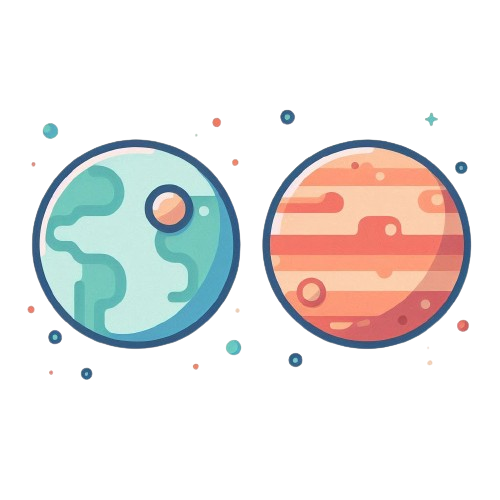
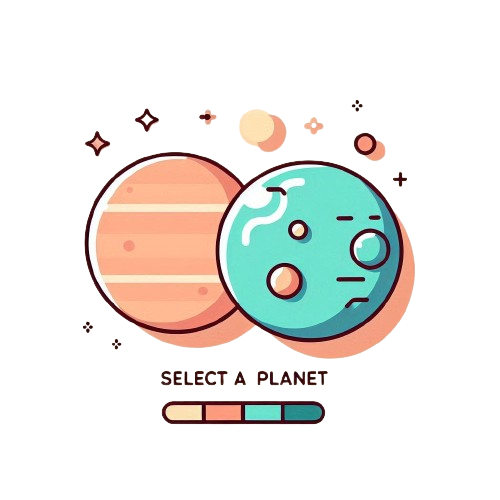
style: create input, select and form styles

diff --git a/src/components/forms/registerAdress/index.tsx b/src/components/forms/registerAdress/index.tsx
@@ -1,8 +1,11 @@
 import { useState } from "react";
 import { useForm } from "react-hook-form";
+import { FaArrowLeft } from "react-icons/fa6";
 import launchButton from "../../../assets/imgs/launch_button.webp";
+import planets from "../../../assets/imgs/planets.webp";
 import { StdInput, StdSelect } from "../inputs";
 import { Planets, SelectOpts } from "../inputs/stdSelect";
+import s from "./index.module.scss";
 
 export const RegisterAdressForm = (): JSX.Element => {
   const {
@@ -22,48 +25,62 @@ export const RegisterAdressForm = (): JSX.Element => {
   const [selectedPlanet, setSelectedPLanet] = useState<Planets>("not_selected");
 
   return (
-    <div className="">
-      <div  className="">
-        <button aria-label="Return">{"<"}</button>
-        <h1 className="">Address</h1>
+    <div className={s.form__container}>
+      <div className={`align ${s.form__header}`}>
+        <button aria-label="Return">
+          <FaArrowLeft size={16} />
+        </button>
+        <h1 className="title3 bold ">Creating new address</h1>
       </div>
-      <form onSubmit={handleSubmit(submit)} className="">
+      <form onSubmit={handleSubmit(submit)} className={`align`}>
         <StdInput
-          id="adress_label"
-          label="Adress label"
+          id="address_label"
+          label="Address label"
           {...register("label")}
         />
-        <StdInput id="full_name" label="Full name" {...register("fullName")} />
-        <StdInput
-          id="phone_number"
-          type="number"
-          label="Mobile Phone"
-          {...register("phone")}
-        />
+        <div className={`${s.paralel__container}`}>
+          <StdInput
+            id="full_name"
+            label="Full name"
+            {...register("fullName")}
+          />
+          <StdInput
+            id="phone_number"
+            type="number"
+            label="Mobile phone"
+            {...register("phone")}
+          />
+        </div>
         <StdSelect
           id="planet_select"
-          label="Planet select"
+          label="Planet"
           options={planetOptions}
           setSelectedPlanet={setSelectedPLanet}
           {...register("planet")}
         />
-        {selectedPlanet === "not_selected" && <h2>Select a planet</h2>}
+        {selectedPlanet === "not_selected" && (
+          <img src={planets} className={`${s.planets__img}`} />
+        )}
         {selectedPlanet === "Earth" && (
           <>
-            <StdInput
-              id="zip_Code"
-              type="number"
-              label="Zip code"
-              {...register("zipCode")}
-            />
             <StdInput
               id="adress_line"
               label="Adress line"
               {...register("adress")}
             />
-            <StdInput id="country" label="Country" {...register("country")} />
-            <StdInput id="state" label="State" {...register("state")} />
-            <StdInput id="city" label="City" {...register("city")} />
+            <div className={`${s.paralel__container}`}>
+              <StdInput id="country" label="Country" {...register("country")} />
+              <StdInput id="state" label="State" {...register("state")} />
+            </div>
+            <div className={`${s.paralel__container}`}>
+              <StdInput id="city" label="City" {...register("city")} />
+              <StdInput
+                id="zip_Code"
+                type="number"
+                label="Zip code"
+                {...register("zipCode")}
+              />
+            </div>
           </>
         )}
         {selectedPlanet === "Mars" && (

diff --git a/src/components/forms/inputs/stdInput/index.tsx b/src/components/forms/inputs/stdInput/index.tsx
@@ -1,4 +1,5 @@
 import { forwardRef, InputHTMLAttributes } from "react";
+import s from "./index.module.scss"
 
 interface StdInputProps extends InputHTMLAttributes<HTMLInputElement> {
   label: string;
@@ -8,10 +9,10 @@ interface StdInputProps extends InputHTMLAttributes<HTMLInputElement> {
 export const StdInput = forwardRef<HTMLInputElement, StdInputProps>(
   ({ label, id, ...rest }, ref): JSX.Element => {
     return (
-      <>
-        <label htmlFor={id}>{label}</label>
-        <input id={id} ref={ref} {...rest} />
-      </>
+      <div className="input__container">
+        <label htmlFor={id} className="text3 medium">{label} *</label>
+        <input id={id} ref={ref} {...rest}/>
+      </div>
     );
   },
 );

diff --git a/src/components/forms/registerAdress/index.module.scss b/src/components/forms/registerAdress/index.module.scss
@@ -1,0 +1,40 @@
+@use "../../../styles/abstracts/colors.scss" as *;
+
+.form__container {
+  form {
+    display: flex;
+    flex-direction: column;
+    row-gap: 1rem;
+  }
+}
+
+.form__header {
+  display: flex;
+  align-items: center;
+  gap: 0.9375rem;
+  height: 3.75rem;
+
+  button {
+    display: flex;
+    align-items: center;
+    justify-content: center;
+    border: 1px solid $neutral-300;
+    border-radius: 8px;
+    outline: none;
+    background-color: transparent;
+    height: 2rem;
+    width: 2rem;
+  }
+}
+
+.paralel__container {
+  display: grid;
+  grid-template-columns: 1fr 1fr;
+  column-gap: 1rem;
+}
+
+.planets__img {
+  width: 90%;
+  margin: 0 auto;
+  filter: drop-shadow(2px 1px 4px #616161);
+}

diff --git a/src/styles/abstracts/_texts.scss b/src/styles/abstracts/_texts.scss
@@ -1,13 +1,13 @@
 
 $font-family-1: "Nunito Sans", sans-serif;
 
-$fontSize-1: clamp(2rem, 5vh, 2.75rem);
-$fontSize-2: clamp(1.85rem, 5vh, 2.375rem);
-$fontSize-3: clamp(1rem, 5vh, 1.5rem);
-$fontSize-4: clamp(0.93rem, 5vh, 1.25rem);
-$fontSize-5: clamp(0.75rem, 5vh, 1rem);
-$fontSize-6: clamp(0.5rem, 5vh, 0.875rem);
-$fontSize-7: clamp(0.35rem, 5vh, 0.75rem);
+$fontSize-1: clamp(2rem, 5vh, 2.375rem);
+$fontSize-2: clamp(1.75rem, 5vh, 2rem);
+$fontSize-3: clamp(1.5rem, 5vh, 1.75rem);
+$fontSize-4: clamp(1.25rem, 5vh, 1.5rem);
+$fontSize-5: clamp(1rem, 5vh, 1.25rem);
+$fontSize-6: clamp(.5rem, 5vh, 1rem);
+$fontSize-7: clamp(.375rem, 5vh, .625rem);
 
 $fontWeight-700: 700;
 $fontWeight-600: 600;

diff --git a/src/components/forms/inputs/stdSelect/index.tsx b/src/components/forms/inputs/stdSelect/index.tsx
@@ -21,7 +21,7 @@ export const StdSelect = forwardRef<HTMLSelectElement, StdSelectProps>(
     };
 
     return (
-      <>
+      <div className="input__container">
         <label htmlFor={id}>{label}</label>
         <select id={id} {...rest} ref={ref} onChange={handlePlanetChange}>
           {options.map(({ value, label }, idx) => {
@@ -32,7 +32,7 @@ export const StdSelect = forwardRef<HTMLSelectElement, StdSelectProps>(
             );
           })}
         </select>
-      </>
+      </div>
     );
   },
 );

diff --git a/src/styles/components/_inputs.scss b/src/styles/components/_inputs.scss
@@ -6,11 +6,12 @@ input, select {
   border-radius: 4px;
   outline: none;
 
-  height: clamp(1.875rem, 5vh, 2.5rem);
+  height: 2.5rem;
+  width: 100%;
   padding: 4px 8px;
 
   font-family: $font-family-1;
-  font-size: $fontSize-5;
+  font-size: $fontSize-6;
 
   &[type="number"] {
     appearance: textfield;
@@ -22,4 +23,10 @@ input, select {
       margin: 0;
     }
   }
+}
+
+.input__container {
+  display: flex;
+  flex-direction: column;
+  row-gap: 8px;
 }

diff --git a/src/styles/base/_typhography.scss b/src/styles/base/_typhography.scss
@@ -1,0 +1,37 @@
+@use "../abstracts/texts.scss" as *;
+
+.title1 {
+  font-size: $fontSize-1;
+}
+
+.title2 {
+  font-size: $fontSize-2;
+}
+
+.title3 {
+  font-size: $fontSize-3;
+}
+
+.text1 {
+  font-size: $fontSize-4;
+}
+
+.text2 {
+  font-size: $fontSize-5;
+}
+
+.text3 {
+  font-size: $fontSize-6;
+}
+
+.bold {
+  font-weight: $fontWeight-700;
+}
+
+.medium {
+  font-weight: $fontWeight-500;
+}
+
+.regular {
+  font-weight: $fontWeight-400;
+}

diff --git a/src/styles/base/_reset.scss b/src/styles/base/_reset.scss
@@ -2,7 +2,9 @@
    v2.0 | 20110126
    License: none (public domain)
 */
-
+* {
+	box-sizing: border-box;
+}
 html, body, div, span, applet, object, iframe,
 h1, h2, h3, h4, h5, h6, p, blockquote, pre,
 a, abbr, acronym, address, big, cite, code,

diff --git a/src/styles/index.scss b/src/styles/index.scss
@@ -1,3 +1,5 @@
 @import "./base/_reset.scss";
 @import "./components/buttons.scss";
 @import "./components/inputs.scss";
+@import "./base/typhography.scss";
+@import "./layout/grid.scss"

diff --git a/src/styles/layout/_grid.scss b/src/styles/layout/_grid.scss
@@ -1,0 +1,4 @@
+.align {
+  max-width: 90%;
+  margin: 0 auto;
+}
